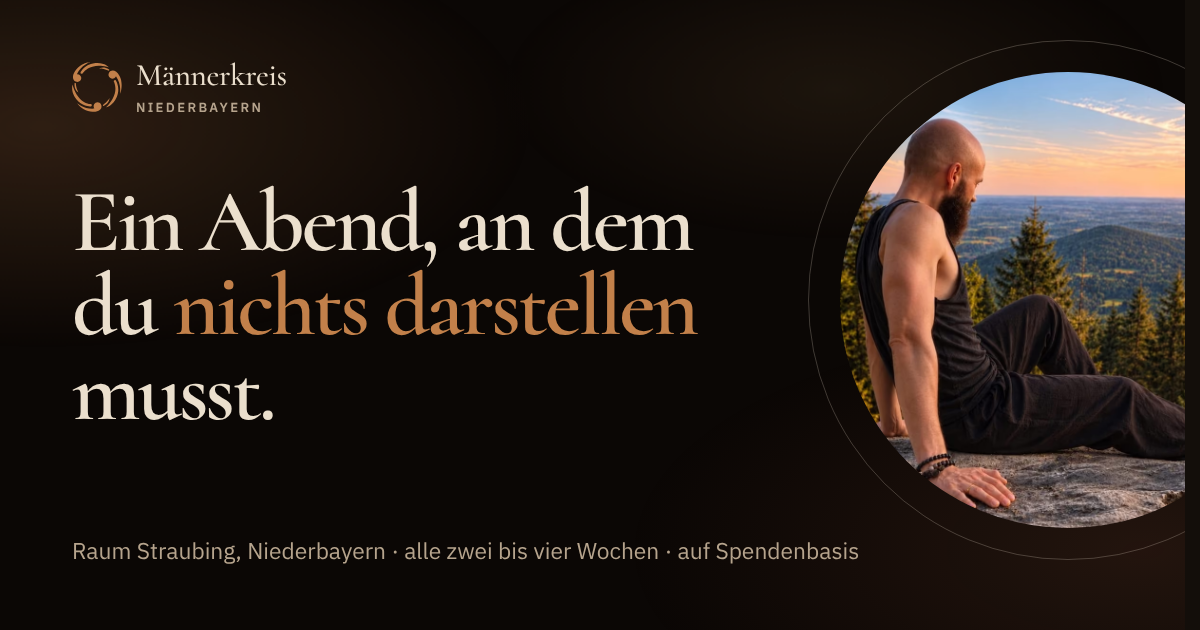
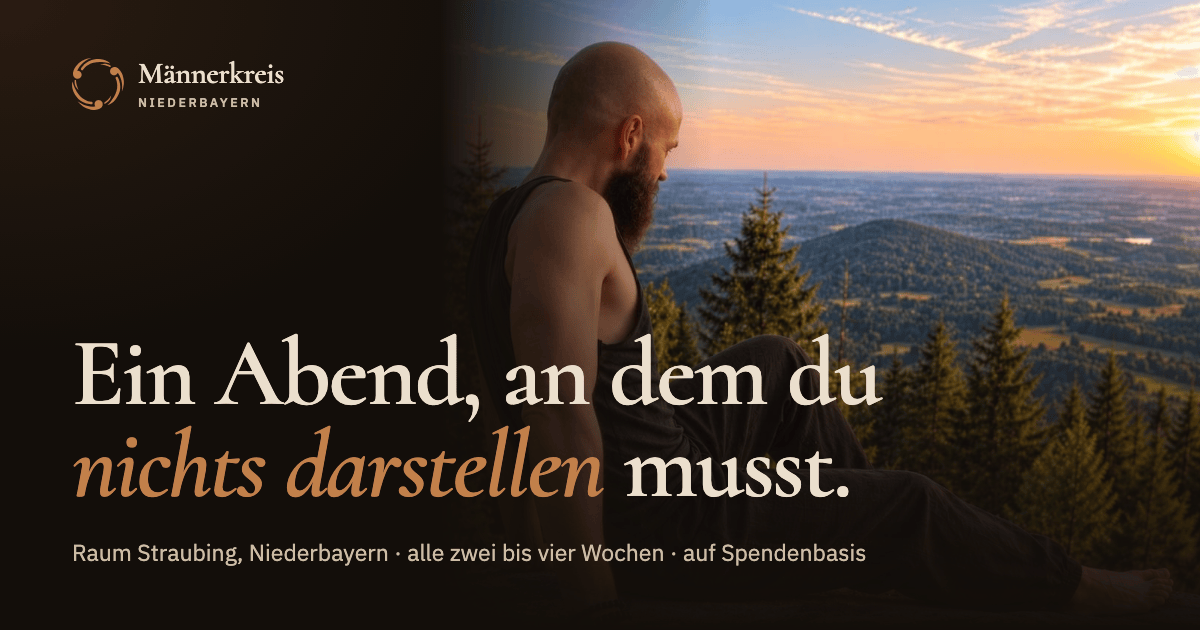
feat(seo): the preview images follow the poster opening
Both og images show the photograph without a frame running into the dark
ground and the title across it; their version is bumped.

diff --git a/tests/event-meta.test.ts b/tests/event-meta.test.ts
@@ -83,7 +83,7 @@ test('the brand is appended once, never twice', () => {
 });
 
 test('unknown/new events use a real static poster without transformation URLs', () => {
-  expect(buildEventMeta(event(), SITE).image).toBe('https://mens-circle.de/images/og-default.png?v=11');
+  expect(buildEventMeta(event(), SITE).image).toBe('https://mens-circle.de/images/og-default.png?v=12');
   expect(buildEventMeta(event({ available_spots: 3 }), SITE).image).toBe(buildEventMeta(event(), SITE).image);
   expect(buildEventMeta(event(), SITE).extraImage).toBeNull();
 });

diff --git a/src/lib/shared/event-meta.ts b/src/lib/shared/event-meta.ts
@@ -126,7 +126,7 @@ export function buildEventMeta(event: EventDTO, siteUrl: URL): EventMeta {
   const day = formatDayMonthYear(event.event_date);
   const longDate = formatDateLong(event.event_date);
   // One static 1200×630 poster for every event — SeoHead's default image.
-  const image = new URL('/images/og-default.png?v=11', siteUrl).href;
+  const image = new URL('/images/og-default.png?v=12', siteUrl).href;
 
   // Only append the brand when the title does not already carry it — saying the
   // name twice eats the 60 chars a SERP shows.
